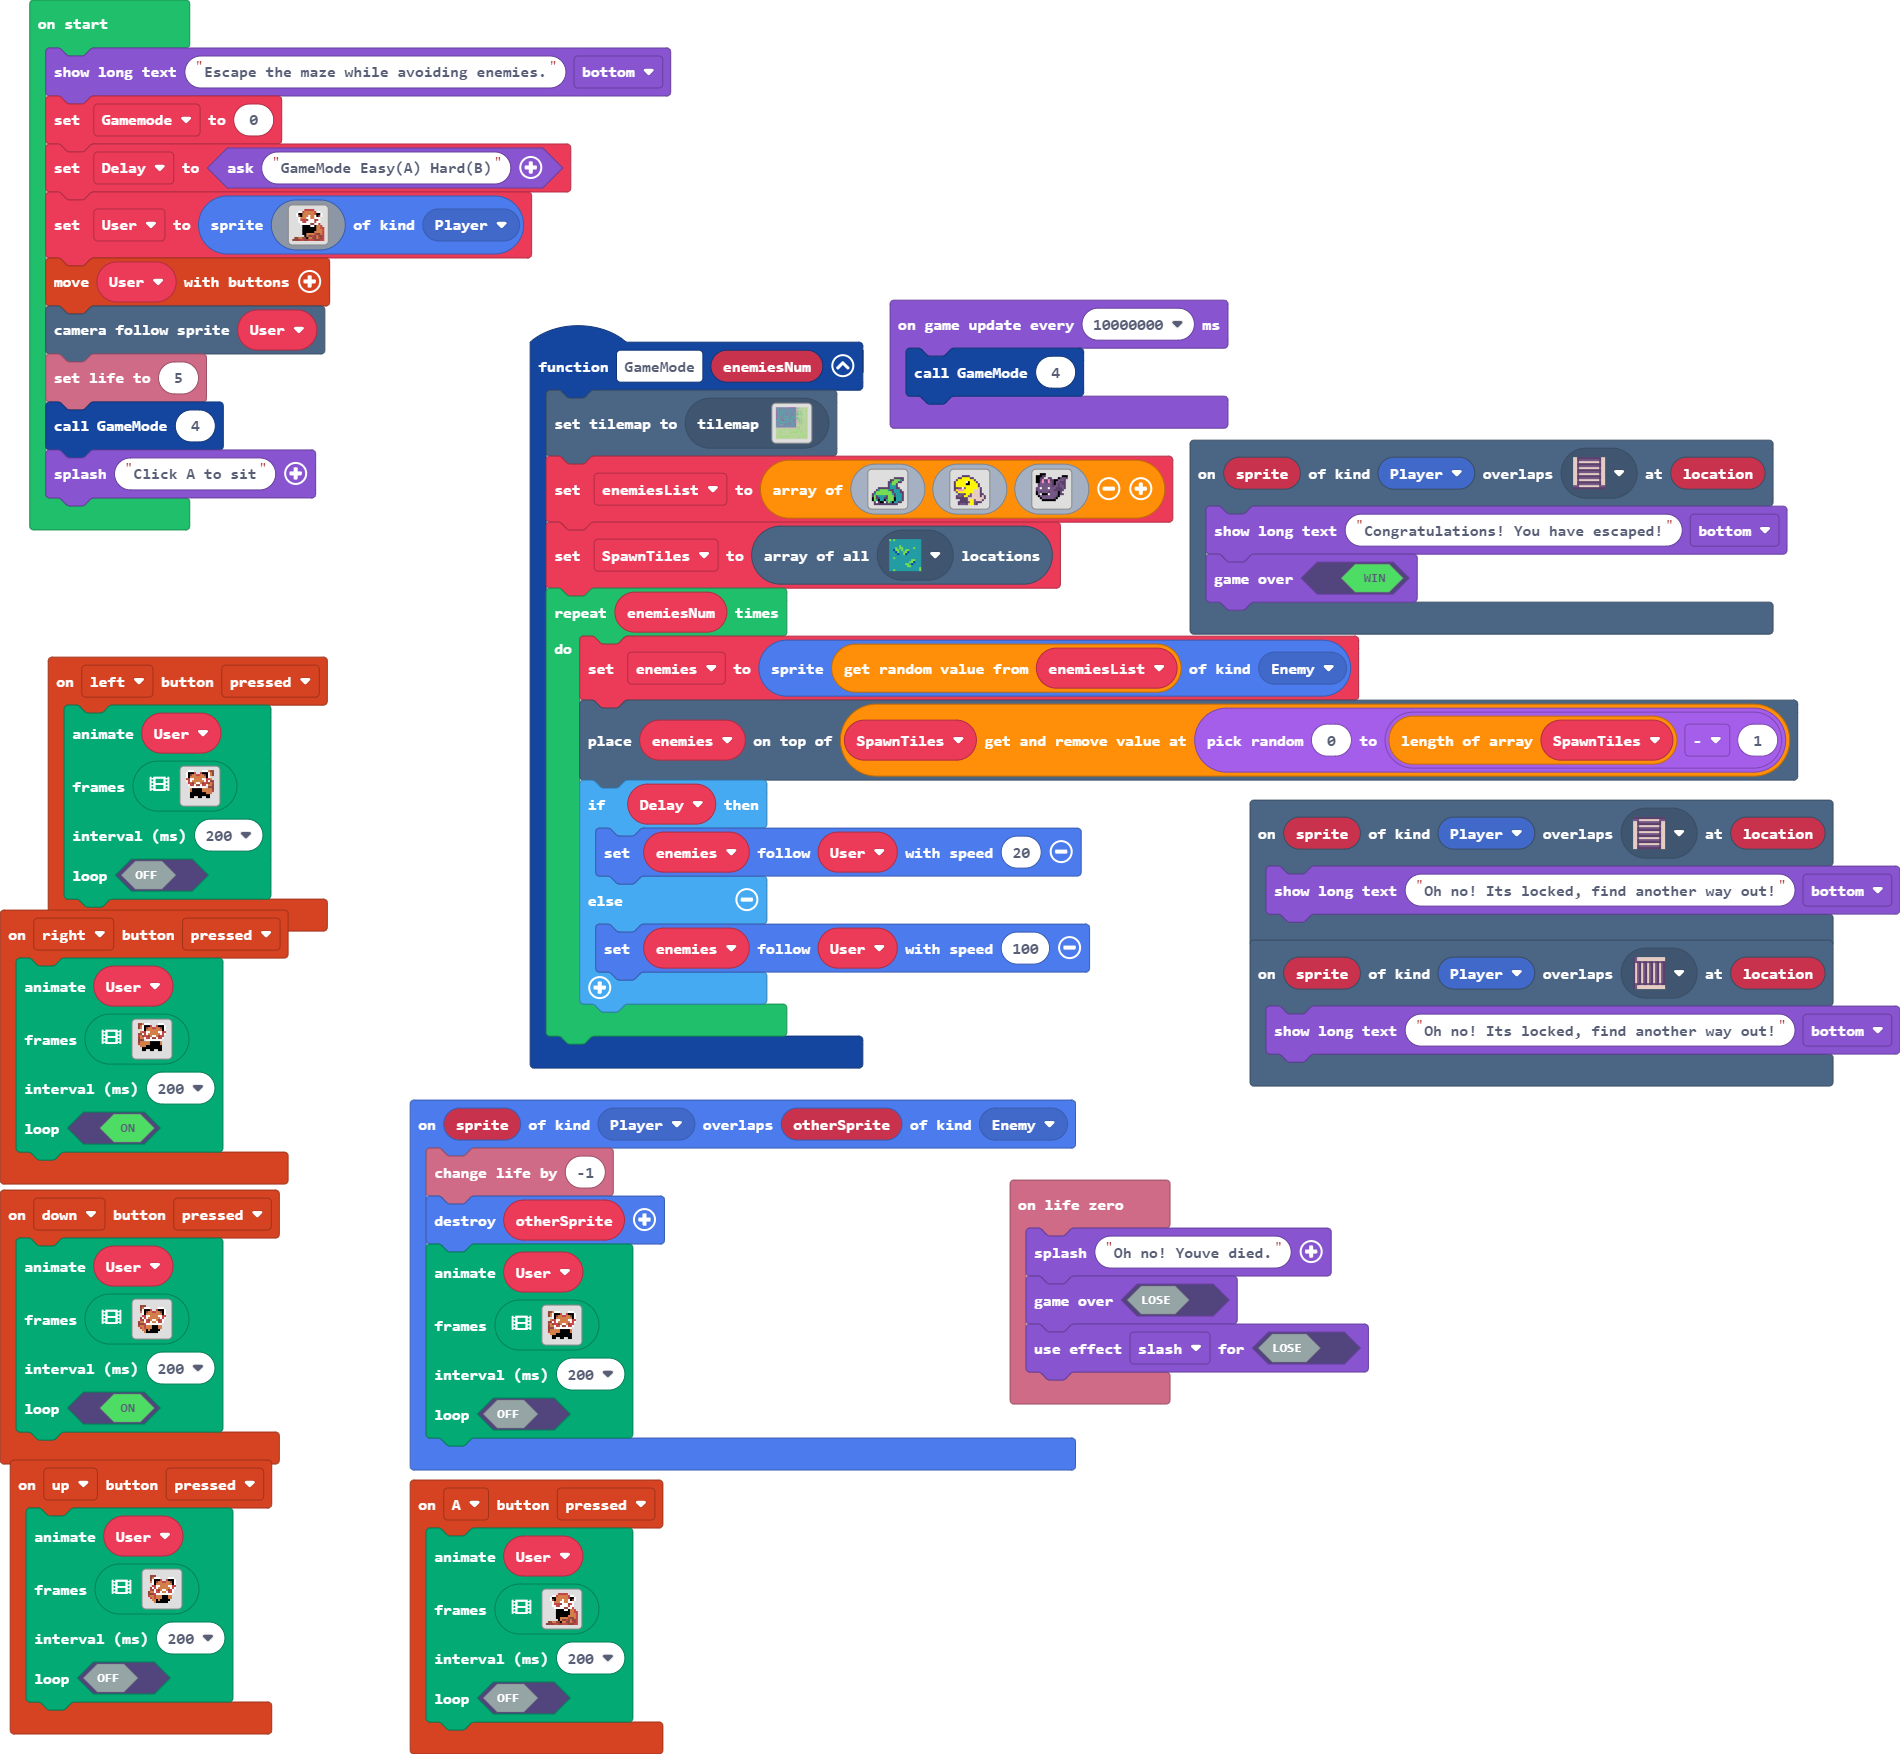
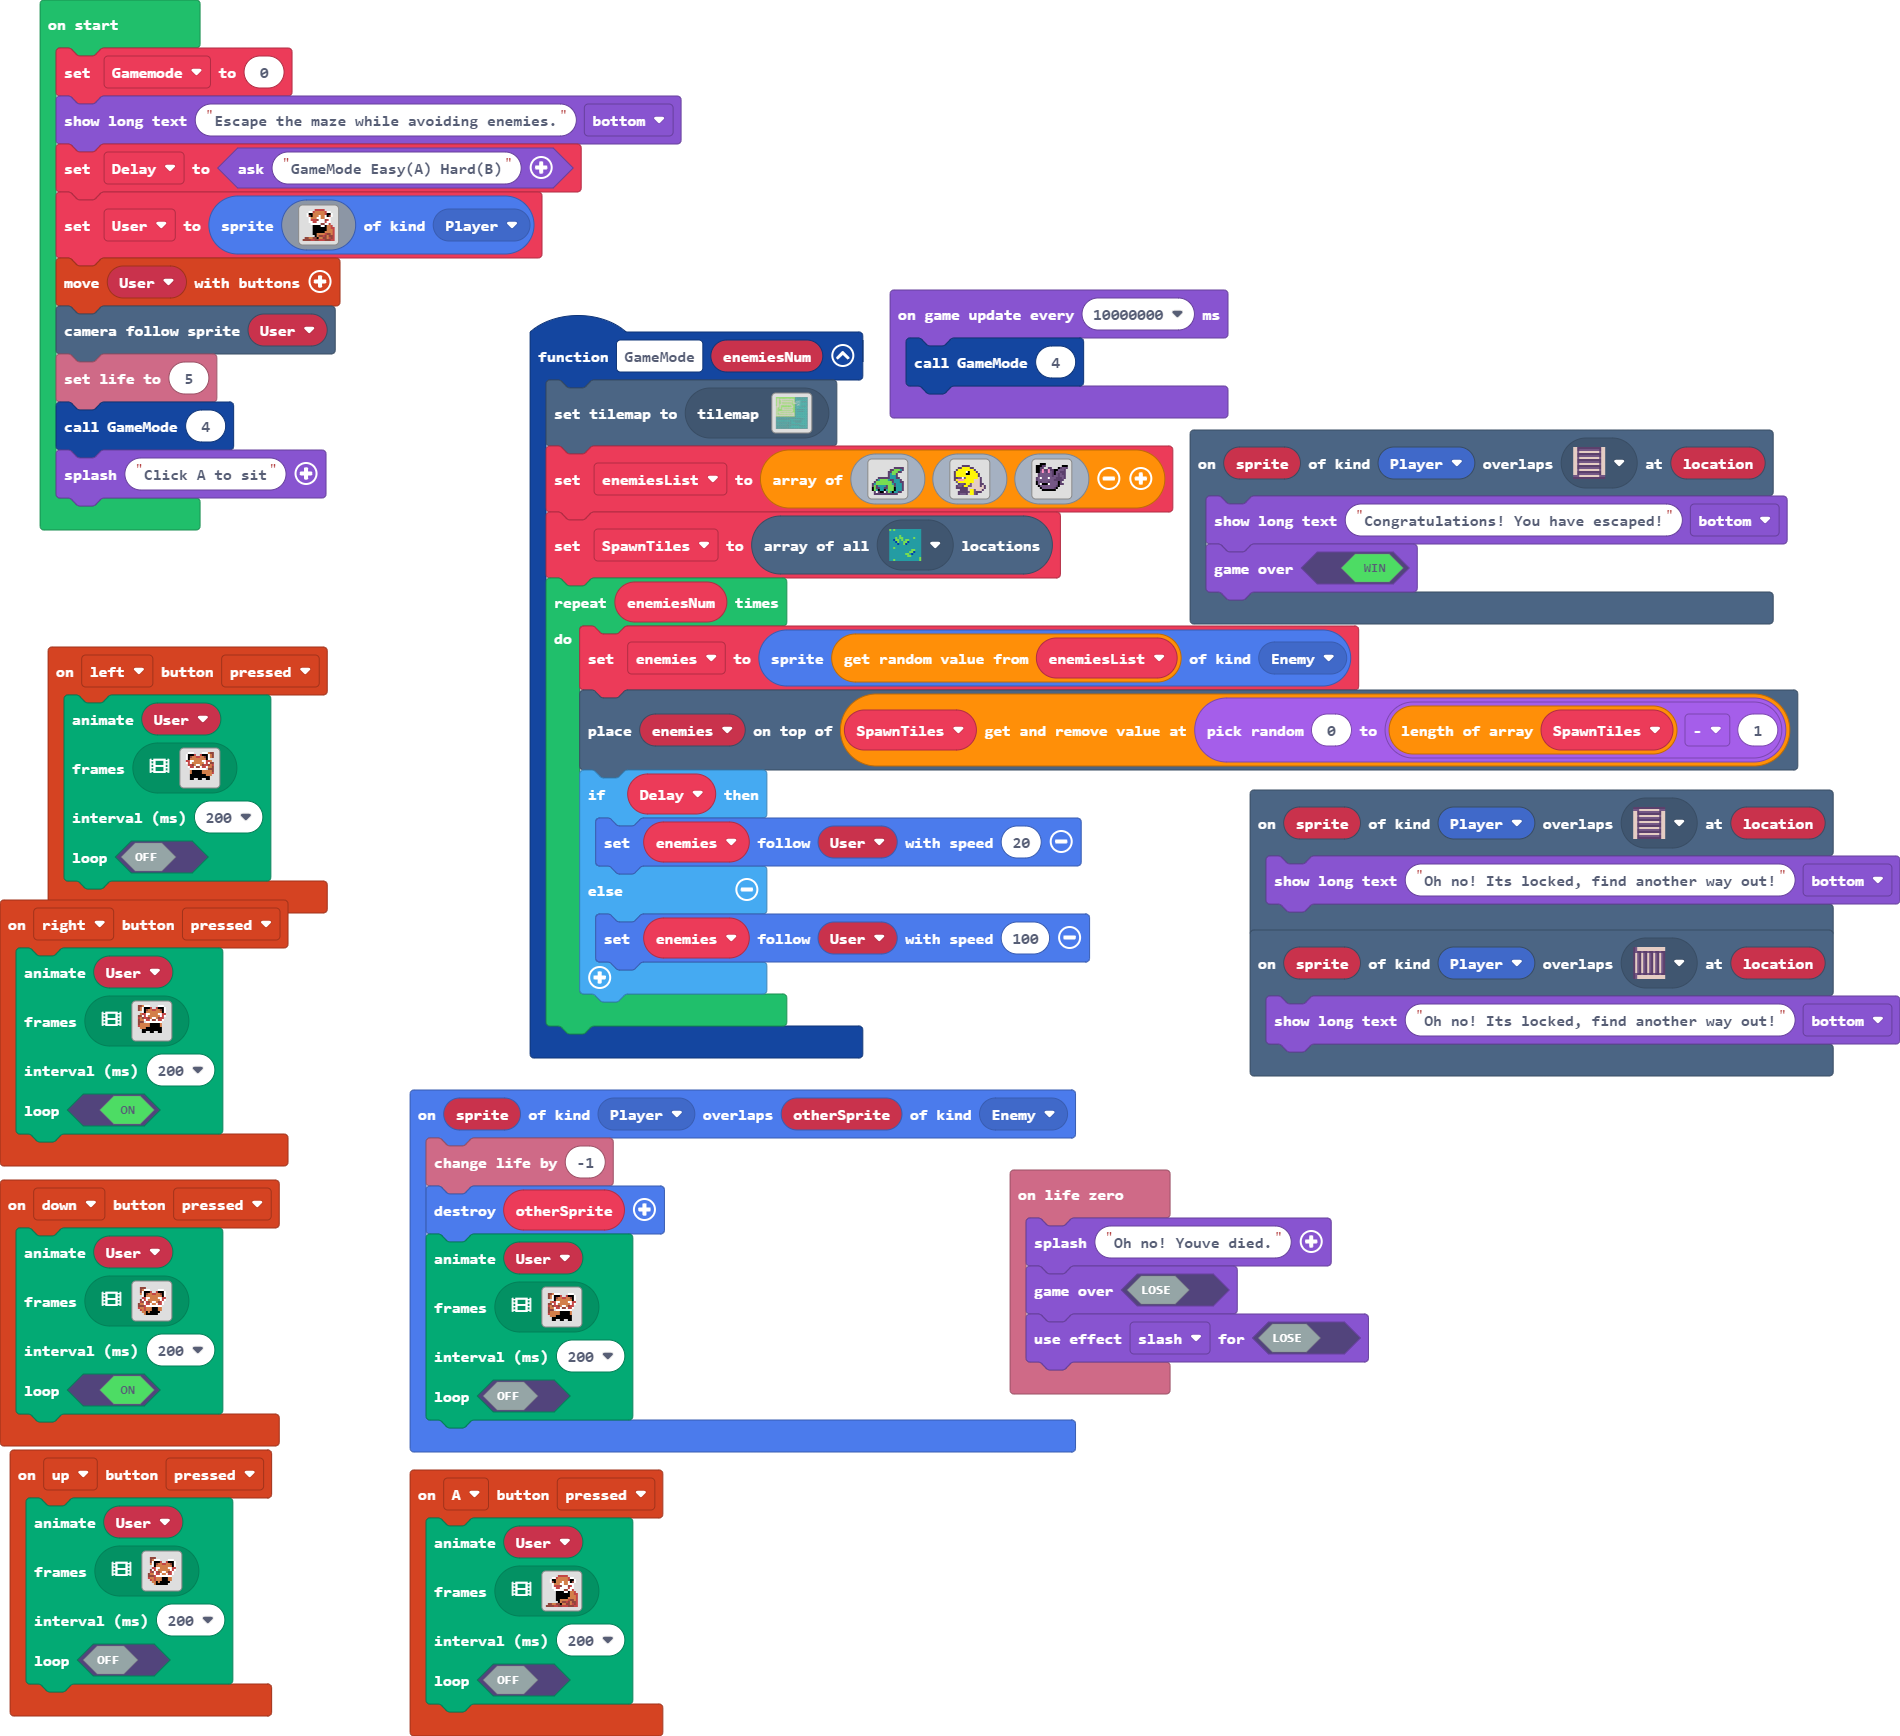
back in block mode without updated tilemap

diff --git a/main.ts b/main.ts
@@ -210,7 +210,7 @@ controller.down.onEvent(ControllerButtonEvent.Pressed, function () {
     )
 })
 function GameMode (enemiesNum: number) {
-    tiles.setCurrentTilemap(tilemap`level1`)
+    tiles.setCurrentTilemap(tilemap`level2`)
     enemiesList = [img`
         . . . . . . . . . . . . . . . . 
         . . . . . . . . . . . . . . . . 
@@ -327,8 +327,8 @@ let SpawnTiles: tiles.Location[] = []
 let enemiesList: Image[] = []
 let User: Sprite = null
 let Delay = false
-game.showLongText("Escape the maze while avoiding enemies.", DialogLayout.Bottom)
 let Gamemode = 0
+game.showLongText("Escape the maze while avoiding enemies.", DialogLayout.Bottom)
 Delay = game.ask("GameMode Easy(A) Hard(B)")
 User = sprites.create(assets.image`RedPanda`, SpriteKind.Player)
 controller.moveSprite(User)
